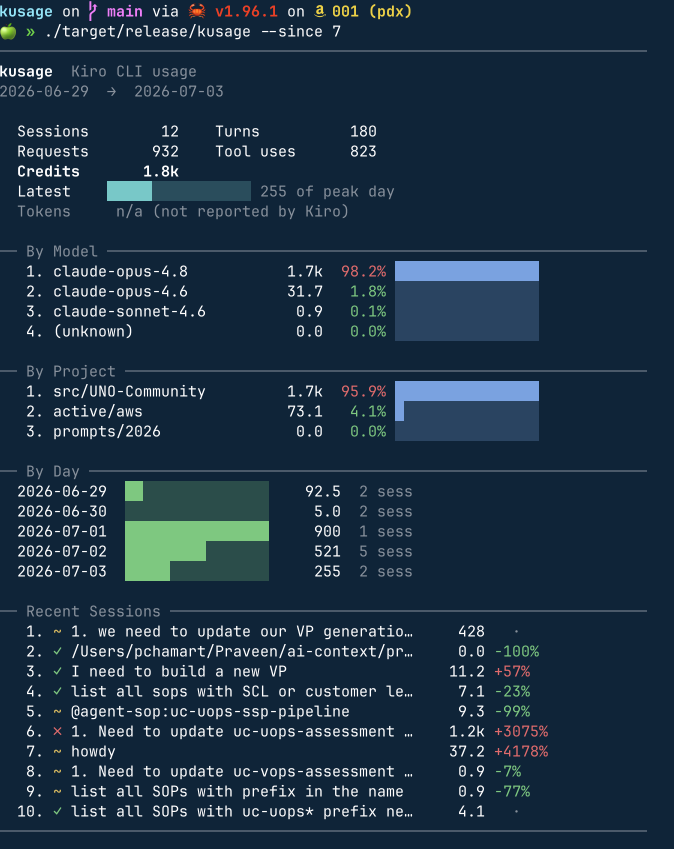
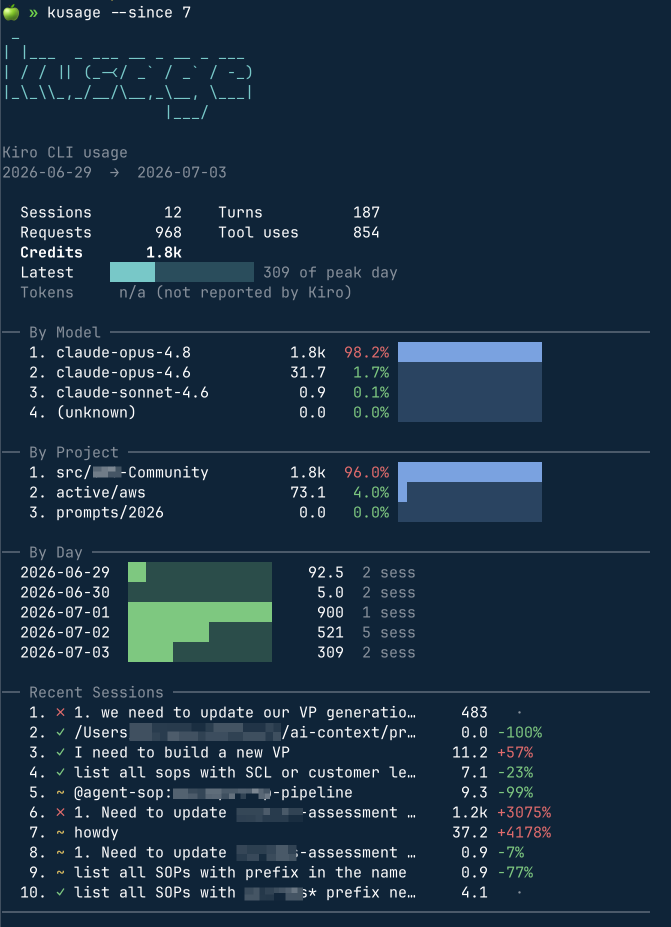
docs: restructure README around usage and refresh screenshot

Changed region(s): [[0.0, 0.0, 0.9538, 1.0], [0.5067, 0.1531, 0.5663, 0.1837], [0.5961, 0.8269, 0.6259, 0.8575]]

diff --git a/README.md b/README.md
@@ -18,33 +18,44 @@ A local, fast Rust CLI that turns [Kiro CLI](https://kiro.dev)'s session data in
 
 ## Why kusage
 
-Kiro CLI tracks your usage locally, but there's no easy way to *see* it. `kusage` reads that local data and shows it as a calm, information-dense dashboard, so you can answer questions like:
+Kiro CLI tracks your usage locally, but there's no easy way to *see* it. `kusage` reads that local data and shows it as a calm, information-dense dashboard, so you can answer questions like: how many credits did I burn this week, which model and project drove most of my usage, and did my recent sessions succeed?
 
-- How many credits did I burn this week, and on which days?
-- Which model and which project is driving most of my usage?
-- What were my recent sessions, and did they succeed?
-
-It's inspired by [ccusage](https://github.com/ccusage/ccusage) for the concept and by `rtk`'s history view for the look. Everything runs **locally**: no network calls, no telemetry, no writing back to Kiro's data.
+Everything runs **locally**: no network calls, no telemetry, no writing back to Kiro's data.
 
 ## Install
 
-Requires [Rust](https://rustup.rs) 1.75 or newer.
+`kusage` is a Rust CLI, so you need the Rust toolchain first. If you don't have it, install it from [rustup.rs](https://rustup.rs):
 
 ```bash
-# Install from crates.io (once published)
+curl --proto '=https' --tlsv1.2 -sSf https://sh.rustup.rs | sh
+```
+
+Then install `kusage`:
+
+```bash
+# From crates.io (once published)
 cargo install kusage
 
-# Or install from a local checkout
+# Or from source
 git clone https://github.com/praveenc/kusage
 cd kusage
 cargo install --path .
 ```
 
-That puts a `kusage` binary on your `PATH`. Prefer not to install? Build a release binary and run it in place:
+Either way you get a `kusage` binary on your `PATH`. Prefer not to install? Build a release binary and run it in place:
 
 ```bash
+git clone https://github.com/praveenc/kusage
+cd kusage
 cargo build --release
 ./target/release/kusage
+```
+
+To update a source install later, pull and reinstall:
+
+```bash
+git pull
+cargo install --path . --force
 ```
 
 ## Quick start
@@ -55,17 +66,67 @@ Just run it:
 kusage
 ```
 
-Focus on the last week, or trim the tables:
+That prints the full dashboard for all of your Kiro CLI history. From there, narrow it down.
+
+## Everyday usage
+
+`kusage` is a single command with a few flags. Combine them freely.
+
+**Focus on a time window.** Only look at the last N days:
 
 ```bash
-kusage --since 7        # only the last 7 days
-kusage --top 5          # show the top 5 rows in each section
+kusage --since 7         # this week
+kusage --since 30        # this month
+```
+
+**Trim the tables.** Show only the top rows in each ranked section (By Model, By Project, Recent):
+
+```bash
+kusage --top 5           # top 5 rows per section
 kusage --since 30 --top 8
 ```
 
-## What you get
+**Plain text.** Drop colors and the banner (useful for logs, notes, or copy-paste):
 
-The dashboard has five sections, each designed to be readable at a glance:
+```bash
+kusage --plain
+```
+
+Colors and the banner are also disabled automatically when output isn't a terminal (piped to a file or another command) or when `NO_COLOR` is set, so you never get escape codes where you don't want them.
+
+### All options
+
+```
+kusage [OPTIONS]
+```
+
+| Flag | Description | Default |
+| --- | --- | --- |
+| `--since <DAYS>` | Only include usage from the last N days | all history |
+| `--top <N>` | Limit ranked breakdowns and the recent feed to N rows | `10` |
+| `--json` | Emit machine-readable JSON instead of the dashboard | off |
+| `--plain` | Disable colors and the banner (plain text) | off |
+| `-h`, `--help` | Print help | |
+| `-V`, `--version` | Print version | |
+
+### Scripting with `--json`
+
+`--json` prints a stable, structured report you can pipe into other tools:
+
+```bash
+# Total credits over the last 30 days
+kusage --since 30 --json | jq '.summary.credits'
+
+# Your top model by credits
+kusage --json | jq -r '.by_model[0].label'
+
+# Credits per day as a TSV
+kusage --json | jq -r '.by_day[] | [.date, .credits] | @tsv'
+```
+
+### Reading the dashboard
+
+The dashboard has five sections, top to bottom:
 
 | Section | What it shows |
 | --- | --- |
@@ -122,36 +183,23 @@ kusage  Kiro CLI usage
 
 </details>
 
-## Options
+## Contributing
 
-```
-kusage [OPTIONS]
-```
-
-| Flag | Description | Default |
-| --- | --- | --- |
-| `--since <DAYS>` | Only include usage from the last N days | all history |
-| `--top <N>` | Limit ranked breakdowns and the recent feed to N rows | `10` |
-| `--json` | Emit machine-readable JSON instead of the dashboard | off |
-| `--plain` | Disable colors and the banner (plain text) | off |
-| `-h`, `--help` | Print help | |
-| `-V`, `--version` | Print version | |
-
-### Scripting with `--json`
-
-`--json` prints a stable, structured report you can pipe into other tools:
+Issues and pull requests are welcome. To work on `kusage`:
 
 ```bash
-# Total credits over the last 30 days
-kusage --since 30 --json | jq '.summary.credits'
-
-# Your top model by credits
-kusage --json | jq -r '.by_model[0].label'
+cargo build            # build
+cargo test             # run the test suite
+cargo clippy           # lint
+cargo fmt              # format
 ```
 
-Colors are also disabled automatically when output is not a terminal or when `NO_COLOR` is set, so piping to a file or another program always yields clean text.
+---
 
-## Where the data comes from
+## How it works
+
+<details open>
+<summary><strong>Where the data comes from</strong></summary>
 
 Kiro CLI stores each chat session as a JSON file at:
 
@@ -168,11 +216,17 @@ export KIRO_DIR=/path/to/your/.kiro   # kusage reads $KIRO_DIR/sessions/cli
 kusage
 ```
 
-### Credits, not tokens
+</details>
+
+<details>
+<summary><strong>Credits, not tokens</strong></summary>
 
 Kiro reports cost as **credits** (each model has a rate multiplier), not raw token counts. The token fields exist in Kiro's data but aren't populated yet, so `kusage` shows `Tokens: n/a` until Kiro starts reporting them. Credits are the headline cost metric everywhere in the dashboard.
 
-## Privacy
+</details>
+
+<details>
+<summary><strong>Privacy</strong></summary>
 
 `kusage` is entirely local:
 
@@ -182,21 +236,17 @@ Kiro reports cost as **credits** (each model has a rate multiplier), not raw tok
 
 The only files it reads are your local Kiro session JSON files.
 
-## Scope
+</details>
+
+<details>
+<summary><strong>Scope</strong></summary>
 
 - **In:** read-only local parsing, aggregation by model / project / day / session, the dashboard, a `--json` mode, and flags for time window, top-N, and plain output.
 - **Not yet (v1):** no network features, no telemetry, no watch/live mode, no export beyond `--json`.
 
-## Contributing
+Inspired by [ccusage](https://github.com/ccusage/ccusage) for the concept and by `rtk`'s history view for the look.
 
-Issues and pull requests are welcome. To work on `kusage`:
-
-```bash
-cargo build            # build
-cargo test             # run the test suite
-cargo clippy           # lint
-cargo fmt              # format
-```
+</details>
 
 ## License
 